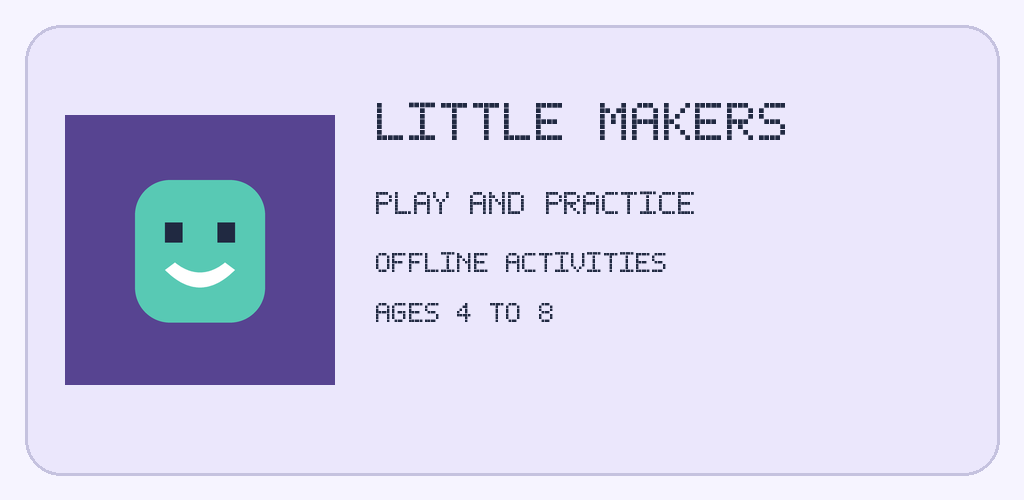
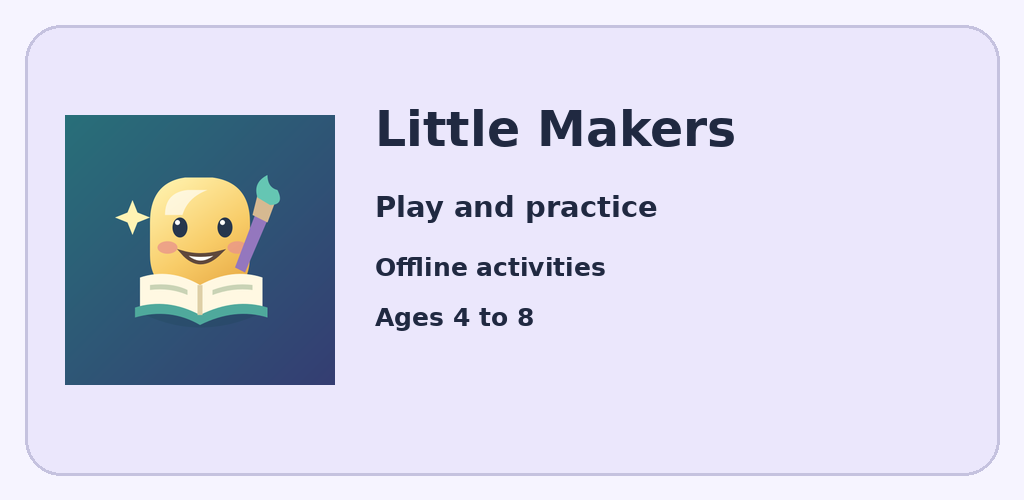
Redesign launcher, mascot branding and immersive village environment
Add the new golden mascot, adaptive/round/themed icons and a directly launched animated welcome scene with immediate Play and internal privacy access. Add an original optimized forest texture behind the mesh-rendered village, camera-relative backdrop, birds and butterfly motion.

Bump to 2.5.0-native (22), preserve local progress and existing content, update store asset export pipeline, and include real portrait/village emulator captures plus branding and crop regression checks. Record modern-platform visual QA limits and artwork provenance.

Changed region(s): [[0.0625, 0.18, 0.7812, 0.78]]

diff --git a/app/src/main/java/com/littlemakers/village/nativeapp/VillageSurface.java b/app/src/main/java/com/littlemakers/village/nativeapp/VillageSurface.java
@@ -18,7 +18,7 @@ final class VillageSurface extends GLSurfaceView implements GLSurfaceView.Render
  private final Listener listener;
  private final boolean reduced,dark;
  private final VillageSceneState state=new VillageSceneState();
- private Mesh sphere,box,cone,cylinder;
+ private Mesh sphere,box,cone,cylinder;private ForestBackdrop forest;
  private final float[] projection=new float[16],view=new float[16],model=new float[16],vp=new float[16],mvp=new float[16],normalMatrix=new float[9];
  private final float[] landmarkPoint=new float[4];
  private final float[] screenX=new float[5],screenY=new float[5],point=new float[4];
@@ -36,10 +36,10 @@ final class VillageSurface extends GLSurfaceView implements GLSurfaceView.Render
  @Override public void onSurfaceCreated(GL10 gl,EGLConfig config){
   try{
    String vs="uniform mat4 uMvp;uniform mat4 uModel;uniform mat3 uNormal;attribute vec3 aPosition;attribute vec3 aNormal;varying vec3 vNormal;varying vec3 vPosition;void main(){vec4 world=uModel*vec4(aPosition,1.);vPosition=world.xyz;vNormal=normalize(uNormal*aNormal);gl_Position=uMvp*vec4(aPosition,1.);}";
-   String fs="precision mediump float;uniform vec3 uColor;varying vec3 vNormal;varying vec3 vPosition;void main(){vec3 n=normalize(vNormal);vec3 light=normalize(vec3(-.6,1.,.7));float diffuse=max(dot(n,light),0.);float shine=pow(max(dot(n,normalize(light+vec3(0.,.6,1.))),0.),32.);vec3 c=uColor*(.65+.35*diffuse)+vec3(.15)*shine;gl_FragColor=vec4(c,1.);}";
+   String fs="precision mediump float;uniform vec3 uColor;varying vec3 vNormal;varying vec3 vPosition;void main(){vec3 n=normalize(vNormal);vec3 light=normalize(vec3(-.6,1.,.7));float diffuse=max(dot(n,light),0.);float shine=pow(max(dot(n,normalize(light+vec3(0.,.6,1.))),0.),32.);vec3 c=uColor*(.65+.35*diffuse)+vec3(.22)*shine;gl_FragColor=vec4(c,1.);}";
    program=GLES20.glCreateProgram();int vertex=shader(GLES20.GL_VERTEX_SHADER,vs),fragment=shader(GLES20.GL_FRAGMENT_SHADER,fs);GLES20.glAttachShader(program,vertex);GLES20.glAttachShader(program,fragment);GLES20.glLinkProgram(program);GLES20.glDeleteShader(vertex);GLES20.glDeleteShader(fragment);int[]linked={0};GLES20.glGetProgramiv(program,GLES20.GL_LINK_STATUS,linked,0);if(linked[0]==0)throw new IllegalStateException("Village program failed");
    posAttr=GLES20.glGetAttribLocation(program,"aPosition");normalAttr=GLES20.glGetAttribLocation(program,"aNormal");mvpUniform=GLES20.glGetUniformLocation(program,"uMvp");modelUniform=GLES20.glGetUniformLocation(program,"uModel");colorUniform=GLES20.glGetUniformLocation(program,"uColor");normalUniform=GLES20.glGetUniformLocation(program,"uNormal");
-   sphere=Mesh.sphere();box=Mesh.box();cone=Mesh.round(true);cylinder=Mesh.round(false);GLES20.glEnable(GLES20.GL_DEPTH_TEST);lastFrame=0;
+   sphere=Mesh.sphere();box=Mesh.box();cone=Mesh.round(true);cylinder=Mesh.round(false);forest=new ForestBackdrop(getContext());forest.create();GLES20.glEnable(GLES20.GL_DEPTH_TEST);lastFrame=0;
   }catch(RuntimeException unsupported){program=0;post(listener::unavailable);}
  }
  @Override public void onSurfaceChanged(GL10 gl,int w,int h){width=w;height=h;GLES20.glViewport(0,0,w,h);Matrix.perspectiveM(projection,0,43,(float)w/Math.max(1,h),.1f,60);}
@@ -53,7 +53,7 @@ final class VillageSurface extends GLSurfaceView implements GLSurfaceView.Render
  @Override public void onDrawFrame(GL10 gl){
   long now=android.os.SystemClock.uptimeMillis();synchronized(state){state.advance(lastFrame==0?0:(now-lastFrame)/1000f,reduced);}lastFrame=now;
   GLES20.glClearColor(dark?.09f:.78f,dark?.12f:.9f,dark?.22f:.96f,1);GLES20.glClear(GLES20.GL_COLOR_BUFFER_BIT|GLES20.GL_DEPTH_BUFFER_BIT);if(program==0)return;
-  GLES20.glUseProgram(program);GLES20.glEnableVertexAttribArray(posAttr);GLES20.glEnableVertexAttribArray(normalAttr);float t=state.seconds;double yaw=Math.toRadians(state.yaw);Matrix.setLookAtM(view,0,(float)Math.sin(yaw)*11,9,(float)Math.cos(yaw)*11,0,.1f,0,0,1,0);Matrix.multiplyMM(vp,0,projection,0,view,0);
+  if(forest!=null)forest.draw(width,height,state.yaw,dark);GLES20.glUseProgram(program);GLES20.glEnableVertexAttribArray(posAttr);GLES20.glEnableVertexAttribArray(normalAttr);float t=state.seconds;double yaw=Math.toRadians(state.yaw);Matrix.setLookAtM(view,0,(float)Math.sin(yaw)*11,9,(float)Math.cos(yaw)*11,0,.1f,0,0,1,0);Matrix.multiplyMM(vp,0,projection,0,view,0);
   draw(sphere,0,-1.0f,0,6.4f,.55f,4.8f,0x74c8db,0);draw(sphere,0,-.7f,0,5.9f,.58f,4.25f,0x9fca8d,0);draw(sphere,0,-.8f,0,5.6f,.35f,4.15f,0x78a984,0);
   for(int i=0;i<10;i++){float x=-3.5f+i*.78f;draw(box,x,-.14f,1.35f,.47f,.03f,.25f,0xf2dca9,12);}
   for(int i=0;i<5;i++){
@@ -69,7 +69,7 @@ final class VillageSurface extends GLSurfaceView implements GLSurfaceView.Render
   }
   tree(-4.4f,.4f,1.2f,(float)Math.sin(t*.9f)*.07f);tree(4.5f,.1f,1.35f,(float)Math.sin(t*.8f)*.08f);
   for(int i=0;i<3;i++){float x=-4+i*3.8f+(float)Math.sin(t*.12f+i)*.45f;draw(sphere,x,3.5f+i%2*.6f,-3.4f,1,.24f,.4f,0xffffff,0);ball(x-.45f,3.6f+i%2*.6f,-3.4f,.38f,0xffffff);}
-  float bob=reduced?0:(float)Math.sin(t*2)*.1f;draw(sphere,0,.28f+bob,2.6f,.46f,.5f,.37f,0xf1c96d,0);float eyeHeight=!reduced&&t%6>5.85f?.012f:.045f;draw(sphere,-.16f,.44f+bob,2.94f,.045f,eyeHeight,.03f,0x30344b,0);draw(sphere,.16f,.44f+bob,2.94f,.045f,eyeHeight,.03f,0x30344b,0);ball(-.29f,.28f+bob,2.9f,.065f,0xe79c9c);ball(.29f,.28f+bob,2.9f,.065f,0xe79c9c);for(int i=0;i<5;i++){float x=(i-2)*.045f;ball(x,.2f+bob+x*x*3,2.96f,.022f,0x30344b);}draw(sphere,-.5f,.3f+bob,2.62f,.16f,.09f,.12f,0xf1c96d,0);draw(sphere,.5f,.3f+bob+(reduced?0:(float)Math.sin(t*3)*.07f),2.62f,.16f,.09f,.12f,0xf1c96d,0);draw(sphere,-.2f,-.12f,2.75f,.17f,.09f,.22f,0xe8b55e,0);draw(sphere,.2f,-.12f,2.75f,.17f,.09f,.22f,0xe8b55e,0);
+  for(int bird=0;bird<2;bird++){float phase=t*.42f+bird*2.4f,bx=(float)Math.sin(phase)*3.7f,by=3.0f+bird*.5f,bz=-2.3f+(float)Math.cos(phase);float flap=reduced?0:(float)Math.sin(t*6+bird)*.13f;draw(sphere,bx,by,bz,.13f,.09f,.17f,0xffd778,0);draw(sphere,bx-.18f,by+flap,bz,.18f,.035f,.1f,0xf3b7c2,-20);draw(sphere,bx+.18f,by+flap,bz,.18f,.035f,.1f,0xf3b7c2,20);}float butterflyX=(float)Math.sin(t*.8f)*.9f,butterflyZ=.3f+(float)Math.cos(t*.8f)*.7f;float wing=reduced?.15f:.05f+Math.abs((float)Math.sin(t*7))*.18f;draw(sphere,butterflyX,1.6f,butterflyZ,.035f,.11f,.035f,0x574b77,0);draw(sphere,butterflyX-wing,1.65f,butterflyZ,wing,.12f,.045f,0xe3a8d2,0);draw(sphere,butterflyX+wing,1.65f,butterflyZ,wing,.12f,.045f,0x91c7df,0);float bob=reduced?0:(float)Math.sin(t*2)*.1f;draw(sphere,0,.28f+bob,2.6f,.46f,.5f,.37f,0xf1c96d,0);float eyeHeight=!reduced&&t%6>5.85f?.012f:.045f;draw(sphere,-.16f,.44f+bob,2.94f,.045f,eyeHeight,.03f,0x30344b,0);draw(sphere,.16f,.44f+bob,2.94f,.045f,eyeHeight,.03f,0x30344b,0);ball(-.29f,.28f+bob,2.9f,.065f,0xe79c9c);ball(.29f,.28f+bob,2.9f,.065f,0xe79c9c);for(int i=0;i<5;i++){float x=(i-2)*.045f;ball(x,.2f+bob+x*x*3,2.96f,.022f,0x30344b);}draw(sphere,-.5f,.3f+bob,2.62f,.16f,.09f,.12f,0xf1c96d,0);draw(sphere,.5f,.3f+bob+(reduced?0:(float)Math.sin(t*3)*.07f),2.62f,.16f,.09f,.12f,0xf1c96d,0);draw(sphere,-.2f,-.12f,2.75f,.17f,.09f,.22f,0xe8b55e,0);draw(sphere,.2f,-.12f,2.75f,.17f,.09f,.22f,0xe8b55e,0);
  }
  @Override public boolean onTouchEvent(MotionEvent e){if(e.getActionMasked()==MotionEvent.ACTION_DOWN){downX=lastX=e.getX();downY=e.getY();dragged=false;return true;}if(e.getActionMasked()==MotionEvent.ACTION_MOVE){if(Math.abs(e.getX()-downX)>slop&&Math.abs(e.getX()-downX)>Math.abs(e.getY()-downY)){dragged=true;getParent().requestDisallowInterceptTouchEvent(true);synchronized(state){state.turn((e.getX()-lastX)*.12f);}requestRender();}lastX=e.getX();return true;}if(e.getActionMasked()==MotionEvent.ACTION_UP){getParent().requestDisallowInterceptTouchEvent(false);performClick();if(!dragged&&!opening){int choice=-1;float best=Math.max(getResources().getDisplayMetrics().density*55,width*.12f);synchronized(screenX){for(int i=0;i<5;i++){float d=(float)Math.hypot(e.getX()-screenX[i],e.getY()-screenY[i]);if(d<best){best=d;choice=i;}}}if(choice>=0){synchronized(state){state.select(choice);}opening=true;performHapticFeedback(android.view.HapticFeedbackConstants.VIRTUAL_KEY);requestRender();postDelayed(openSelected,reduced?0:420);}}return true;}if(e.getActionMasked()==MotionEvent.ACTION_CANCEL)getParent().requestDisallowInterceptTouchEvent(false);return true;}
  @Override public boolean performClick(){super.performClick();return true;}

diff --git a/app/src/main/java/com/littlemakers/village/nativeapp/OpeningActivity.java b/app/src/main/java/com/littlemakers/village/nativeapp/OpeningActivity.java
@@ -1,0 +1,48 @@
+package com.littlemakers.village.nativeapp;
+
+import android.app.Activity;
+import android.content.Intent;
+import android.graphics.*;
+import android.graphics.drawable.Drawable;
+import android.os.Bundle;
+import android.os.SystemClock;
+import android.view.*;
+import android.widget.*;
+import java.io.IOException;
+import java.io.InputStream;
+
+/** Interactive opening scene, not a timed loading gate. No network or account setup. */
+public final class OpeningActivity extends Activity {
+ private OpeningArt artwork;private SoundEngine sound;private boolean entering;
+ @Override public void onCreate(Bundle saved){setTheme(R.style.AppTheme);super.onCreate(saved);if(android.os.Build.VERSION.SDK_INT>=31)Api31Splash.install(this);sound=new SoundEngine(this);ThemeManager theme=new ThemeManager(this);
+  FrameLayout root=new FrameLayout(this);root.setBackgroundColor(0xff245d73);artwork=new OpeningArt(this);root.addView(artwork,new FrameLayout.LayoutParams(-1,-1));
+  LinearLayout content=new LinearLayout(this);content.setOrientation(1);content.setGravity(Gravity.BOTTOM|Gravity.CENTER_HORIZONTAL);content.setPadding(theme.dp(28),theme.dp(24),theme.dp(28),theme.dp(24));
+  TextView name=label("Little Makers",38,true);content.addView(name);TextView sub=label("A little world. Big imagination.",18,false);sub.setPadding(0,theme.dp(8),0,theme.dp(20));content.addView(sub);
+  Button play=new Button(this);play.setAllCaps(false);play.setText("Let’s play  ›");play.setTextSize(22);play.setTypeface(theme.font(true));play.setTextColor(0xff26364d);play.setMinHeight(theme.dp(72));android.graphics.drawable.GradientDrawable fill=new android.graphics.drawable.GradientDrawable(android.graphics.drawable.GradientDrawable.Orientation.TOP_BOTTOM,new int[]{0xffffe9a2,0xfff1c765});fill.setCornerRadius(theme.dp(28));play.setBackground(fill);play.setElevation(theme.dp(5));play.setOnClickListener(v->{if(entering)return;entering=true;sound.note(1);v.performHapticFeedback(HapticFeedbackConstants.VIRTUAL_KEY);startActivity(new Intent(this,CreativeActivity.class).addFlags(Intent.FLAG_ACTIVITY_CLEAR_TOP|Intent.FLAG_ACTIVITY_SINGLE_TOP));finish();});content.addView(play,new LinearLayout.LayoutParams(-1,theme.dp(76)));
+  TextView trust=label("Offline play · No ads · Made for curious minds",13,false);trust.setPadding(0,theme.dp(16),0,theme.dp(12));content.addView(trust);
+  Button privacy=new Button(this);privacy.setAllCaps(false);privacy.setText("Privacy & grown-up information");privacy.setTextColor(Color.WHITE);privacy.setTextSize(14);privacy.setMinHeight(theme.dp(64));privacy.setBackgroundColor(Color.TRANSPARENT);privacy.setOnClickListener(v->startActivity(new Intent(this,MainActivity.class).putExtra("destination","privacy")));content.addView(privacy,new LinearLayout.LayoutParams(-1,theme.dp(64)));
+  ScrollView scroll=new ScrollView(this);scroll.setFillViewport(true);scroll.addView(content,new ScrollView.LayoutParams(-1,-1));FrameLayout.LayoutParams panel=new FrameLayout.LayoutParams(-1,-1);if(getResources().getDisplayMetrics().widthPixels>getResources().getDisplayMetrics().heightPixels){panel.width=Math.round(getResources().getDisplayMetrics().widthPixels*.58f);panel.gravity=Gravity.END;panel.setMargins(theme.dp(12),theme.dp(16),theme.dp(12),theme.dp(16));android.graphics.drawable.GradientDrawable glass=new android.graphics.drawable.GradientDrawable(android.graphics.drawable.GradientDrawable.Orientation.TOP_BOTTOM,new int[]{0x88415467,0xcc20374b});glass.setCornerRadius(theme.dp(28));scroll.setBackground(glass);}root.addView(scroll,panel);root.setOnApplyWindowInsetsListener((v,i)->{content.setPadding(theme.dp(28)+i.getSystemWindowInsetLeft(),theme.dp(24)+i.getSystemWindowInsetTop(),theme.dp(28)+i.getSystemWindowInsetRight(),theme.dp(16)+i.getSystemWindowInsetBottom());return i;});setContentView(root);root.requestApplyInsets();getWindow().getDecorView().setSystemUiVisibility(0);getWindow().setStatusBarColor(0xff245d73);getWindow().setNavigationBarColor(0xff20374b);
+ }
+ private static final class Api31Splash {static void install(OpeningActivity a){a.getSplashScreen().setOnExitAnimationListener(view->{boolean reduced=a.getSharedPreferences("family",0).getBoolean("reduce_motion",false)||android.provider.Settings.Global.getFloat(a.getContentResolver(),android.provider.Settings.Global.ANIMATOR_DURATION_SCALE,1)==0;if(reduced)view.remove();else view.animate().alpha(0).setDuration(160).withEndAction(view::remove).start();});}}
+ private TextView label(String value,int size,boolean bold){TextView t=new TextView(this);t.setText(value);t.setTextSize(size);t.setTextColor(Color.WHITE);t.setGravity(Gravity.CENTER);t.setTypeface(new ThemeManager(this).font(bold));return t;}
+ @Override protected void onResume(){super.onResume();entering=false;if(artwork!=null)artwork.invalidate();}
+ @Override protected void onPause(){sound.stop();super.onPause();}
+ @Override protected void onDestroy(){artwork.dispose();sound.stop();super.onDestroy();}
+ private static final class OpeningArt extends View {
+  private final Paint paint=new Paint(Paint.ANTI_ALIAS_FLAG|Paint.FILTER_BITMAP_FLAG);private Bitmap forest;private final Drawable mascot;private final ThemeManager theme;private final RectF scene=new RectF();
+  OpeningArt(android.content.Context context){super(context);theme=new ThemeManager(context);mascot=context.getDrawable(R.drawable.brand_mascot);try(InputStream in=context.getAssets().open("webart/forest_backdrop.webp")){forest=BitmapFactory.decodeStream(in);}catch(IOException ignored){}setImportantForAccessibility(IMPORTANT_FOR_ACCESSIBILITY_NO);}
+  boolean moving(){return !getContext().getSharedPreferences("family",0).getBoolean("reduce_motion",false)&&android.provider.Settings.Global.getFloat(getContext().getContentResolver(),android.provider.Settings.Global.ANIMATOR_DURATION_SCALE,1)>0;}
+  protected void onDraw(Canvas c){super.onDraw(c);float w=getWidth(),h=getHeight(),time=moving()?SystemClock.uptimeMillis()/1000f:0;float slow=(float)Math.sin(time*.17f)*.015f;
+   if(forest!=null){float scale=Math.max(w/forest.getWidth(),h/forest.getHeight())*(1.035f+slow);float iw=forest.getWidth()*scale,ih=forest.getHeight()*scale;scene.set((w-iw)/2,(h-ih)/2,(w+iw)/2,(h+ih)/2);c.drawBitmap(forest,null,scene,paint);}else c.drawColor(0xff478b8b);
+   paint.setShader(new LinearGradient(0,0,0,h,new int[]{0x16375368,0x202d4b57,0xe720374b,0xff20374b},new float[]{0,.35f,.7f,1},Shader.TileMode.CLAMP));c.drawRect(0,0,w,h,paint);paint.setShader(null);
+   boolean wide=w>h;float size=wide?Math.min(w*.35f,h*.64f):Math.min(w*.64f,Math.max(theme.dp(140),(h-theme.dp(360))*.85f));float centerY=wide?h*.45f:Math.max(theme.dp(90),(h-theme.dp(370))*.48f);float centerX=wide?w*.23f:w/2;float bob=moving()?(float)Math.sin(time*1.7f)*theme.dp(5):0;
+   paint.setColor(0x2efff2c3);c.drawCircle(centerX,centerY,size*.52f,paint);c.save();c.translate(centerX,centerY+bob);if(moving())c.rotate((float)Math.sin(time*.9f)*3);mascot.setBounds((int)(-size/2),(int)(-size/2),(int)(size/2),(int)(size/2));mascot.draw(c);c.restore();
+   for(int i=0;i<9;i++){float x=w*(.12f+(i%4)*.24f),y=h*(.13f+(i%3)*.12f)+(moving()?(float)Math.sin(time*.7f+i)*theme.dp(9):0);paint.setColor(0x99fff4c4);c.drawCircle(x,y,theme.dp(i%2+2),paint);}
+  }
+  @Override public void onWindowFocusChanged(boolean focus){super.onWindowFocusChanged(focus);removeCallbacks(frame);if(focus){invalidate();if(moving())post(frame);}}
+  @Override protected void onAttachedToWindow(){super.onAttachedToWindow();if(hasWindowFocus())post(frame);}
+  private final Runnable frame=new Runnable(){public void run(){if(isAttachedToWindow()&&moving()&&hasWindowFocus()){invalidate();postDelayed(this,33);}}};
+  @Override protected void onDetachedFromWindow(){removeCallbacks(frame);super.onDetachedFromWindow();}
+  void dispose(){removeCallbacks(frame);if(forest!=null){forest.recycle();forest=null;}}
+ }
+}

diff --git a/app/src/main/java/com/littlemakers/village/nativeapp/ForestBackdrop.java b/app/src/main/java/com/littlemakers/village/nativeapp/ForestBackdrop.java
@@ -1,0 +1,14 @@
+package com.littlemakers.village.nativeapp;
+import android.content.Context;import android.graphics.*;import android.opengl.*;import java.io.*;import java.nio.*;
+/** Original bundled environmental artwork drawn behind the real depth-tested village. */
+final class ForestBackdrop {
+ private final Context context;private int program,texture,position,uv,crop,exposure;private float aspect=1.5f;private final float[]uvCrop=new float[4];private final FloatBuffer quad;
+ ForestBackdrop(Context c){context=c;float[]v={-1,-1,0,1,1,-1,1,1,-1,1,0,0,1,1,1,0};quad=ByteBuffer.allocateDirect(v.length*4).order(ByteOrder.nativeOrder()).asFloatBuffer();quad.put(v).position(0);}
+ private int compile(int type,String code){int s=GLES20.glCreateShader(type);GLES20.glShaderSource(s,code);GLES20.glCompileShader(s);int[]ok={0};GLES20.glGetShaderiv(s,GLES20.GL_COMPILE_STATUS,ok,0);if(ok[0]==0)throw new IllegalStateException("Backdrop shader failed");return s;}
+ void create(){Bitmap image=null;try{
+  BitmapFactory.Options options=new BitmapFactory.Options();options.inJustDecodeBounds=true;try(InputStream in=context.getAssets().open("webart/forest_backdrop.webp")){BitmapFactory.decodeStream(in,null,options);}int[]limit={0};GLES20.glGetIntegerv(GLES20.GL_MAX_TEXTURE_SIZE,limit,0);int sample=1;while(options.outWidth/sample>limit[0]||options.outHeight/sample>limit[0]){sample*=2;if(sample>32)throw new IOException("Texture size unavailable");}options.inJustDecodeBounds=false;options.inSampleSize=sample;try(InputStream in=context.getAssets().open("webart/forest_backdrop.webp")){image=BitmapFactory.decodeStream(in,null,options);}if(image==null)return;aspect=(float)image.getWidth()/image.getHeight();
+  int vertex=compile(GLES20.GL_VERTEX_SHADER,"attribute vec2 aPosition;attribute vec2 aUv;varying vec2 vUv;void main(){vUv=aUv;gl_Position=vec4(aPosition,.999,1.);}"),fragment=compile(GLES20.GL_FRAGMENT_SHADER,"precision mediump float;varying vec2 vUv;uniform sampler2D uImage;uniform vec4 uCrop;uniform float uExposure;void main(){vec2 p=vUv*uCrop.xy+uCrop.zw;vec3 color=texture2D(uImage,p).rgb;gl_FragColor=vec4(color*uExposure,1.);}");program=GLES20.glCreateProgram();GLES20.glAttachShader(program,vertex);GLES20.glAttachShader(program,fragment);GLES20.glLinkProgram(program);GLES20.glDeleteShader(vertex);GLES20.glDeleteShader(fragment);int[]linked={0};GLES20.glGetProgramiv(program,GLES20.GL_LINK_STATUS,linked,0);if(linked[0]==0)throw new IllegalStateException("Backdrop linking failed");position=GLES20.glGetAttribLocation(program,"aPosition");uv=GLES20.glGetAttribLocation(program,"aUv");crop=GLES20.glGetUniformLocation(program,"uCrop");exposure=GLES20.glGetUniformLocation(program,"uExposure");
+  int[]id={0};GLES20.glGenTextures(1,id,0);texture=id[0];GLES20.glActiveTexture(GLES20.GL_TEXTURE0);GLES20.glBindTexture(GLES20.GL_TEXTURE_2D,texture);GLES20.glTexParameteri(GLES20.GL_TEXTURE_2D,GLES20.GL_TEXTURE_MIN_FILTER,GLES20.GL_LINEAR);GLES20.glTexParameteri(GLES20.GL_TEXTURE_2D,GLES20.GL_TEXTURE_MAG_FILTER,GLES20.GL_LINEAR);GLES20.glTexParameteri(GLES20.GL_TEXTURE_2D,GLES20.GL_TEXTURE_WRAP_S,GLES20.GL_CLAMP_TO_EDGE);GLES20.glTexParameteri(GLES20.GL_TEXTURE_2D,GLES20.GL_TEXTURE_WRAP_T,GLES20.GL_CLAMP_TO_EDGE);GLUtils.texImage2D(GLES20.GL_TEXTURE_2D,0,image,0);GLES20.glUseProgram(program);GLES20.glUniform1i(GLES20.glGetUniformLocation(program,"uImage"),0);
+ }catch(IOException|RuntimeException unavailable){program=0;}finally{if(image!=null)image.recycle();}}
+ void draw(int width,int height,float yaw,boolean dark){if(program==0||texture==0)return;BackdropCrop.cover(aspect,(float)width/Math.max(1,height),yaw*.00065f,uvCrop);GLES20.glDisable(GLES20.GL_DEPTH_TEST);GLES20.glDepthMask(false);GLES20.glUseProgram(program);GLES20.glActiveTexture(GLES20.GL_TEXTURE0);GLES20.glBindTexture(GLES20.GL_TEXTURE_2D,texture);GLES20.glUniform4f(crop,uvCrop[0],uvCrop[1],uvCrop[2],uvCrop[3]);GLES20.glUniform1f(exposure,dark?.48f:1);GLES20.glEnableVertexAttribArray(position);GLES20.glEnableVertexAttribArray(uv);quad.position(0);GLES20.glVertexAttribPointer(position,2,GLES20.GL_FLOAT,false,16,quad);quad.position(2);GLES20.glVertexAttribPointer(uv,2,GLES20.GL_FLOAT,false,16,quad);GLES20.glDrawArrays(GLES20.GL_TRIANGLE_STRIP,0,4);GLES20.glDisableVertexAttribArray(position);GLES20.glDisableVertexAttribArray(uv);GLES20.glDepthMask(true);GLES20.glEnable(GLES20.GL_DEPTH_TEST);}
+}

diff --git a/app/src/main/java/com/littlemakers/village/nativeapp/MainActivity.java b/app/src/main/java/com/littlemakers/village/nativeapp/MainActivity.java
@@ -12,7 +12,7 @@ import java.util.*;
 public final class MainActivity extends Activity {
  private GameDatabase db;private PlayerWallet wallet;private ProgressManager progress;private SoundEngine sound;private ThemeManager theme;
  private LinearLayout root,body;private TextView status;private GameView gameView;private String gameId,screen="home";private boolean paused=false;private int catalogPage=0;
- @Override public void onCreate(Bundle saved){super.onCreate(saved);db=GameDatabase.create(this);wallet=new PlayerWallet(db);progress=new ProgressManager(db);sound=new SoundEngine(this);theme=new ThemeManager(this);if(saved!=null)gameId=saved.getString("game");if(gameId!=null)openGame(gameId,false);else {String destination=getIntent().getStringExtra("destination");if(destination==null)home();else if(destination.equals("parents")){playroom();parentGate();}else if(destination.equals("privacy"))privacy();else if(destination.equals("friend"))shop();else if(destination.equals("shapes"))category(GameCatalog.Kind.SHAPES,0);else if(destination.equals("puzzles"))category(GameCatalog.Kind.MAZE,0);else playroom();}if(Build.VERSION.SDK_INT>=33)Api33Back.register(this);}
+ @Override public void onCreate(Bundle saved){setTheme(R.style.AppTheme);super.onCreate(saved);db=GameDatabase.create(this);wallet=new PlayerWallet(db);progress=new ProgressManager(db);sound=new SoundEngine(this);theme=new ThemeManager(this);if(saved!=null)gameId=saved.getString("game");if(gameId!=null)openGame(gameId,false);else {String destination=getIntent().getStringExtra("destination");if(destination==null){startActivity(new Intent(this,OpeningActivity.class));finish();}else if(destination.equals("parents")){playroom();parentGate();}else if(destination.equals("privacy"))privacy();else if(destination.equals("friend"))shop();else if(destination.equals("shapes"))category(GameCatalog.Kind.SHAPES,0);else if(destination.equals("puzzles"))category(GameCatalog.Kind.MAZE,0);else playroom();}if(Build.VERSION.SDK_INT>=33)Api33Back.register(this);}
  private void base(String title){if(gameView!=null){progress.save(gameView.rules);gameView.pause();gameView=null;}sound.stop();theme=new ThemeManager(this);root=new LinearLayout(this);root.setOrientation(1);root.setBackgroundColor(theme.background);root.setPadding(theme.dp(12),0,theme.dp(12),0);setContentView(root);
   root.setOnApplyWindowInsetsListener((v,insets)->{v.setPadding(theme.dp(12)+insets.getSystemWindowInsetLeft(),insets.getSystemWindowInsetTop(),theme.dp(12)+insets.getSystemWindowInsetRight(),insets.getSystemWindowInsetBottom());return insets;});root.requestApplyInsets();getWindow().getDecorView().setSystemUiVisibility(theme.dark?0:View.SYSTEM_UI_FLAG_LIGHT_STATUS_BAR|View.SYSTEM_UI_FLAG_LIGHT_NAVIGATION_BAR);
   LinearLayout bar=row();bar.addView(button("Home",()->home()),new LinearLayout.LayoutParams(theme.dp(86),theme.dp(64)));TextView heading=text(title,23,true);heading.setGravity(Gravity.CENTER);bar.addView(heading,new LinearLayout.LayoutParams(0,theme.dp(64),1));root.addView(bar);

diff --git a/tools/make-store-assets.py b/tools/make-store-assets.py
@@ -1,23 +1,19 @@
 """Original native icon export and feature graphic. Not screenshot generation."""
 from pathlib import Path
-import xml.etree.ElementTree as ET
+import runpy
 from PIL import Image,ImageDraw,ImageFont
-root=Path(__file__).resolve().parents[1];ns='{http://schemas.android.com/apk/res/android}'
-v=ET.parse(root/'app/src/main/res/drawable/app_icon.xml').getroot()
-svg='<svg xmlns="http://www.w3.org/2000/svg" width="108" height="108" viewBox="0 0 108 108">'+''.join('<path fill="'+p.attrib[ns+'fillColor']+'" d="'+p.attrib[ns+'pathData']+'"/>' for p in v)+'</svg>'
-p=root/'release/media';p.mkdir(exist_ok=True);(p/'logo-master.svg').write_text(svg)
-# Same original paths as app_icon.xml, rasterized with supersampling.
-s=2048/108;icon=Image.new('RGBA',(2048,2048),'#574491');d=ImageDraw.Draw(icon)
-box=lambda coords:tuple(x*s for x in coords)
-d.rounded_rectangle(box((28,26,80,83)),radius=14*s,fill='#58C9B4')
-d.rectangle(box((40,43,47,51)),fill='#202941');d.rectangle(box((61,43,68,51)),fill='#202941')
-def curve(a,b,c):return [((1-t)**2*a[0]+2*(1-t)*t*b[0]+t*t*c[0],(1-t)**2*a[1]+2*(1-t)*t*b[1]+t*t*c[1]) for t in [i/40 for i in range(41)]]
-points=curve((40,62),(54,76),(68,62))+[(64,59)]+curve((64,59),(54,67),(44,59))
-d.polygon([(x*s,y*s) for x,y in points],fill='white');icon=icon.resize((512,512),Image.Resampling.LANCZOS);icon.save(p/'play-icon-512.png')
+root=Path(__file__).resolve().parents[1]
+runpy.run_path(str(root/'tools/export-brand.py'),run_name='__main__')
+p=root/'release/media';p.mkdir(exist_ok=True)
+icon=Image.open(p/'play-icon-512.png').convert('RGBA')
 image=Image.new('RGB',(1024,500),'#F6F4FF');d=ImageDraw.Draw(image)
 d.rounded_rectangle((25,25,999,475),radius=36,fill='#EBE7FC',outline='#C5C2DF',width=3)
 small=icon.resize((270,270),Image.Resampling.LANCZOS);image.paste(small,(65,115),small)
-font=lambda size:ImageFont.truetype(str(root/'app/src/main/res/font/makers_text.ttf'),size)
+def font(size):
+ for name in ['DejaVuSans-Bold.ttf','arial.ttf',str(root/'app/src/main/res/font/makers_text.ttf')]:
+  try:return ImageFont.truetype(name,size)
+  except OSError:pass
+ return ImageFont.load_default()
 for x,y,text,size in [(375,100,'Little Makers',49),(375,190,'Play and practice',29),(375,252,'Offline activities',25),(375,302,'Ages 4 to 8',25)]:d.text((x,y),text,font=font(size),fill='#202941')
 image.save(p/'feature-graphic-1024x500.png')
 print('Exported native-matching original icon and feature graphic; not screenshots.')

diff --git a/tools/export-brand.py b/tools/export-brand.py
@@ -1,0 +1,22 @@
+"""Export the original native vector logo to SVG and Play Store PNG. Dev dependency: cairosvg."""
+from pathlib import Path
+import xml.etree.ElementTree as E
+import html
+r=Path(__file__).resolve().parents[1];ns='{http://schemas.android.com/apk/res/android}'
+root=E.parse(r/'app/src/main/res/drawable/brand_mascot.xml').getroot();paths=[];gradients=[]
+for i,p in enumerate(root.findall('path')):
+ fill=p.get(ns+'fillColor','#000000');g=p.find('.//gradient')
+ if g is not None:
+  gid=f'gradient{i}';fill=f'url(#{gid})';stops=''.join(f'<stop offset="{x.get(ns+"offset")}" stop-color="{x.get(ns+"color")}"/>' for x in g.findall('item'));gradients.append(f'<linearGradient id="{gid}" gradientUnits="userSpaceOnUse" x1="{g.get(ns+"startX")}" y1="{g.get(ns+"startY")}" x2="{g.get(ns+"endX")}" y2="{g.get(ns+"endY")}">{stops}</linearGradient>')
+ attrs={'fill':fill,'d':p.get(ns+'pathData'),'opacity':p.get(ns+'fillAlpha','1')}
+ for android,svg in [('strokeColor','stroke'),('strokeWidth','stroke-width')]:
+  if p.get(ns+android):attrs[svg]=p.get(ns+android)
+ paths.append('<path '+' '.join(f'{k}="{html.escape(v)}"' for k,v in attrs.items())+'/>')
+svg='<svg xmlns="http://www.w3.org/2000/svg" width="512" height="512" viewBox="0 0 108 108"><defs><linearGradient id="brand" x2="1" y2="1"><stop stop-color="#286F79"/><stop offset="1" stop-color="#343D72"/></linearGradient>'+''.join(gradients)+'</defs><rect width="108" height="108" fill="url(#brand)"/>'+''.join(paths)+'</svg>'
+(r/'art-source/logo-2.5.0.svg').write_text(svg)
+(r/'release/media/logo-master.svg').write_text(svg)
+try:
+ import cairosvg
+ cairosvg.svg2png(bytestring=svg.encode(),write_to=str(r/'release/media/play-icon-512.png'),output_width=512,output_height=512)
+ print('Exported original SVG and 512px PNG logo.')
+except ImportError:print('SVG exported. Install cairosvg to also render the PNG.')

diff --git a/tests/check_branding.py b/tests/check_branding.py
@@ -1,0 +1,12 @@
+from pathlib import Path
+import xml.etree.ElementTree as E
+r=Path(__file__).resolve().parents[1];a='{http://schemas.android.com/apk/res/android}'
+manifest=E.parse(r/'app/src/main/AndroidManifest.xml').getroot();app=manifest.find('application');assert app.get(a+'icon')=='@mipmap/app_icon' and app.get(a+'roundIcon')=='@mipmap/app_icon_round'
+activities={x.get(a+'name'):x for x in app.findall('activity')};assert activities['com.littlemakers.village.nativeapp.MainActivity'].get(a+'exported')=='false';opening=activities['com.littlemakers.village.nativeapp.OpeningActivity'];assert opening.get(a+'theme')=='@style/LaunchTheme' and opening.get(a+'exported')=='true';assert opening.find('intent-filter') is not None
+for suffix in ['v26','v33']:
+ for name in ['app_icon','app_icon_round']:
+  icon=E.parse(r/f'app/src/main/res/mipmap-anydpi-{suffix}/{name}.xml').getroot();assert icon.tag=='adaptive-icon' and icon.find('foreground') is not None and icon.find('background') is not None
+  if suffix=='v33':assert icon.find('monochrome') is not None
+assert (r/'app/src/main/assets/webart/forest_backdrop.webp').stat().st_size<800000
+styles=E.parse(r/'app/src/main/res/values-v31/styles.xml').getroot();assert any(x.get('name')=='android:windowSplashScreenAnimatedIcon' for x in styles.iter('item'))
+print('PASS: adaptive/round/themed icons, launch theme, internal opening screen and bounded offline background asset.')

diff --git a/tests/BackdropCropTest.java b/tests/BackdropCropTest.java
@@ -1,0 +1,4 @@
+package com.littlemakers.village.nativeapp;
+public final class BackdropCropTest {
+ public static void main(String[]args){float[]c=new float[4];int checked=0;for(float image:new float[]{.6f,1,1.5f,2})for(float view:new float[]{.5f,.75f,1,1.7f,2.4f})for(float pan:new float[]{-9,-.02f,0,.02f,9}){BackdropCrop.cover(image,view,pan,c);if(c[0]<=0||c[1]<=0||c[0]>1||c[1]>1||c[2]<0||c[3]<0||c[2]+c[0]>1.00001f||c[3]+c[1]>1.00001f)throw new AssertionError("Image edge sampled");if(Math.abs(c[0]*image/c[1]-view)>.0001f)throw new AssertionError("Stretched image");checked++;}System.out.println("PASS: "+checked+" portrait/landscape/pan combinations preserve aspect and image bounds.");}
+}

diff --git a/app/src/main/java/com/littlemakers/village/nativeapp/BackdropCrop.java b/app/src/main/java/com/littlemakers/village/nativeapp/BackdropCrop.java
@@ -1,0 +1,6 @@
+package com.littlemakers.village.nativeapp;
+/** Reusable center-cover UV transform; never samples outside the bundled image. */
+final class BackdropCrop {
+ static void cover(float imageAspect,float viewAspect,float pan,float[]out){if(!(imageAspect>0)||!(viewAspect>0)||out.length<4)throw new IllegalArgumentException("Invalid viewport");float sx=Math.min(1,viewAspect/imageAspect),sy=Math.min(1,imageAspect/viewAspect);out[0]=sx;out[1]=sy;out[2]=Math.max(0,Math.min(1-sx,(1-sx)*.5f+pan));out[3]=(1-sy)*.5f;}
+ private BackdropCrop(){}
+}

diff --git a/BRANDING-2.5.0.md b/BRANDING-2.5.0.md
@@ -1,0 +1,32 @@
+# Little Makers 2.5.0 — opening, logo and environment
+
+## Implemented
+- New original golden reading-and-painting mascot. Native vector foreground, teal/navy background, API 26 adaptive icons, round icon and API 33 monochrome layer. The 512px Play listing icon and editable SVG are exported from the same vector geometry.
+- OpeningActivity is now the actual launcher. LaunchTheme provides a native icon startup window on API 24–30 and Android 12+ splash attributes on API 31+. Version-gated platform exit animation does not introduce a fixed loading delay.
+- Interactive welcome scene: illustrated forest, gently floating mascot and motes, readable title, large immediately available Play button and internal privacy access. Landscape uses a side panel; scrollable text accommodates constrained height. Reduced-motion and system animation settings stop decorative movement.
+- Original forest/pond landscape behind the actual 3D village, not a replacement for its meshes. GPU texture upload respects texture-size limits; center-cover cropping preserves aspect ratio and bounds. The backdrop has subtle camera-relative parallax and a darker treatment in dark mode.
+- Animated birds and butterfly, moving clouds/canopies, brighter material highlights and the existing expressive companion. Navigation, 1,053 pictures, 210 scripts, 1,200 levels and local wallet remain intact.
+
+## Scope and verification
+“4D” is interpreted as immersive 3D plus motion, sound and haptics; this is not a fourth spatial dimension. The textured environment is 2D illustrated artwork behind real 3D geometry. Story and drawing screens remain primarily 2D. No stereoscopic/AR features, network permission, advertising or runtime game-engine dependency were added.
+
+Build/signature checks, previous game/save/audio/navigation/content checks, native icon/theme checks, and 100 viewport/pan crop cases pass. See verification/BRANDING-2.5.0.json for actual emulator observations. API 31+/33 resource variants are compiled but need modern-device visual acceptance; physical-device performance and full accessibility remain pending. The direct SDK build does not certify Android Studio dependency resolution in every environment.
+
+## Asset provenance
+The mascot, native icon paths and welcome motion are original code-authored assets. The environmental illustration was generated with the built-in image-generation tool on 24 October 2026; see art-source/forest-background-prompt.txt for the complete production prompt. It was encoded to WebP for offline delivery (no content compositing or retouching). Existing OpenMoji and Kenney notices remain unchanged. Re-export the logo using tools/export-brand.py (cairosvg is a development-only dependency).
+
+## Files
+- app/src/main/res/drawable/brand_mascot.xml — editable native logo
+- app/src/main/res/mipmap-anydpi* — legacy/adaptive/round/themed icons
+- art-source/logo-2.5.0.svg — editable brand master
+- release/media/play-icon-512.png — listing icon
+- app/src/main/assets/webart/forest_backdrop.webp — original new environmental background
+- OpeningActivity.java / ForestBackdrop.java — welcome scene and village background
+
+Use main and preserve your existing signing key to retain local progress during upgrades. Release identity/privacy URL/signing guards remain in effect; this is not a Play approval guarantee.
+
+## Actual emulator opening screen
+
+![Native opening screen](verification/opening-2.5.0.png)
+
+![Native textured village](verification/village-2.5.0.png)

diff --git a/README.md b/README.md
@@ -1,3 +1,7 @@
+# Opening, logo and environment — 2.5.0
+
+See [BRANDING-2.5.0.md](BRANDING-2.5.0.md) for the launcher redesign, original artwork, verification and remaining limits.
+
 # Native 3D village update — 2.4.0
 
 See [MOTION-2.4.0.md](MOTION-2.4.0.md) for the real 3D scene, motion controls, validation and remaining 2D content.
